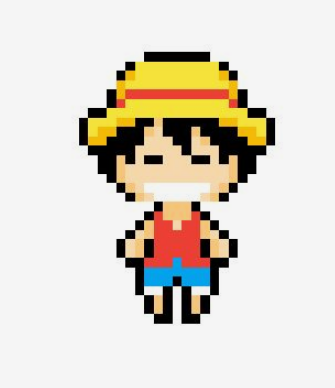
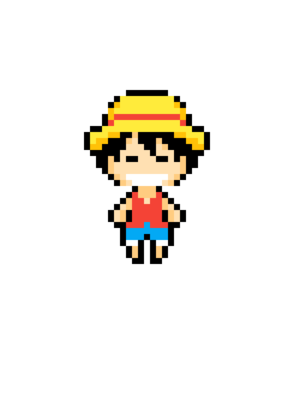
adicionado logotipo da atitus

Changed region(s): [[0.21, 0.1237, 0.84, 0.8351]]

diff --git a/OnePiece.py b/OnePiece.py
@@ -11,44 +11,45 @@ gameDisplay = pygame.display.set_mode(tamanho)
 clock = pygame.time.Clock()
 gameEvents = pygame.event
 branco = (255,255,255)
-fundo = pygame.image.load("one-piece/wano.png")
-luffy = pygame.image.load("one-piece/luffy-wano.png")
+fundo = pygame.image.load("one-piece/wano.jpg")
+luffy = pygame.image.load("one-piece/luffy.png")
 fogo = pygame.image.load("one-piece/fogo.png")
-
+preto = (000,000,000)
+atitus = pygame.image.load("one-piece/atitus.png")
 
 
 
 def escreverTexto (texto):
-    fonte  = pygame.font.Font("freesansbold.ttf",15)
-    textoDisplay = fonte.render(texto,True,branco)
-    gameDisplay.blit(textoDisplay, (880,80))
+    fonte  = pygame.font.Font("freesansbold.ttf",20)
+    textoDisplay = fonte.render(texto,True,preto)
+    gameDisplay.blit(textoDisplay, (85,100))
     pygameDisplay.update()
 
 def morreu():
     fonte  = pygame.font.Font("freesansbold.ttf",95)
     fonte2  = pygame.font.Font("freesansbold.ttf",45)
-    textoDisplay = fonte.render("MORREUU !!!!",True,branco)
-    textoDisplay2 = fonte2.render("press enter to continue !!!!",True,branco)
+    textoDisplay = fonte.render("MORREUU !!!!",True,preto)
+    textoDisplay2 = fonte2.render("press enter to continue !!!!",True,preto)
     gameDisplay.blit(textoDisplay, (150,150))
     gameDisplay.blit(textoDisplay2, (150,350))
     pygameDisplay.update()
 
 def jogar():
     jogando = True
-    luffyX = 50
-    luffyY = 30
+    luffyX = 200
+    luffyY = 550
     movimentoLuffyX = 0
-    larguraLuffy = 30
-    alturaLuffy = 50
+    larguraLuffy = 300
+    alturaLuffy = 396
     alturaFogo = 50
     larguraFogo = 25
     posicaoFogoX = 170
-    posicaoFogoY = -550
+    posicaoFogoY = -200
     velocidadeFogo = 1
     pontos = 0
     pygame.mixer.music.load("one-piece/tema.mp3")
     pygame.mixer.music.play(-1)
-    pygame.mixer.music.set_volume(-0.7)
+    pygame.mixer.music.set_volume(-1)
 
     fogoSound = pygame.mixer.Sound("one-piece/bola-fogo-sound.mp3")
     fogoSound.set_volume(1)

diff --git a/setup.py b/setup.py
@@ -1,11 +1,11 @@
 import cx_Freeze
 
 executables = [cx_Freeze.Executable(
-    script="IronMan.py",
-    icon="assets/ironIcon.ico"
+    script="OnePiece.py",
+    icon="assets/icon.png"
 )]
 cx_Freeze.setup(
-    name="IronMan",
+    name="OnePiece",
     options={
         "build_exe":{"packages":["pygame"],
         "include_files":["assets"]
